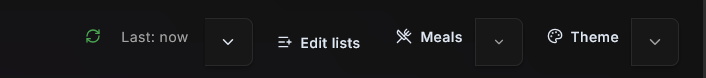
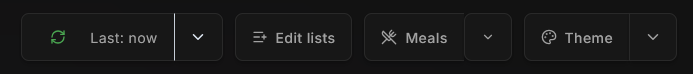
fix: remove ghost variant from custom-styled buttons
Removed variant="ghost" from all desktop floating buttons and Settings
modal buttons to prevent shadcn's ghost variant styles from overriding
custom styling. Buttons now properly display with intended backgrounds,
borders, and shadows.

🤖 Generated with [Claude Code](https://claude.com/claude-code)

diff --git a/src/routes/+page.svelte b/src/routes/+page.svelte
@@ -723,7 +723,6 @@
         <div class="sync-button-container">
           <!-- Main Sync Button -->
           <Button
-            variant="ghost"
             class="sync-button-floating sync-button-main {syncStore.isSyncing || syncStore.isClearingCache ? 'syncing' : syncStore.isOnline && !syncStore.isSyncing && !syncStore.isClearingCache ? 'synced' : !syncStore.isOnline ? 'offline' : ''}"
             onclick={handleSync}
             disabled={!syncStore.isOnline || syncStore.isSyncing || syncStore.isClearingCache}
@@ -785,7 +784,6 @@
 
         <!-- Edit Lists Button -->
         <Button
-          variant="ghost"
           class="action-button-floating edit-lists-button"
           onclick={handleEditLists}
           aria-label="Edit lists"
@@ -799,7 +797,6 @@
         <div class="meals-button-container hidden lg:block">
           <!-- Main Meals Button -->
           <Button
-            variant="ghost"
             class="action-button-floating meals-button-main"
             onclick={handleMealPlannerModalOpen}
             aria-label="Meal planner"
@@ -834,7 +831,6 @@
         <div class="theme-button-container">
           <!-- Main Theme Button -->
           <Button
-            variant="ghost"
             class="action-button-floating theme-button-main"
             onclick={() => isThemeDropdownOpen = !isThemeDropdownOpen}
             aria-label="Change theme"

diff --git a/src/lib/components/Settings.svelte b/src/lib/components/Settings.svelte
@@ -210,7 +210,6 @@
         <!-- Lists Management Section -->
         <section class="settings-section">
           <Button
-            variant="ghost"
             class="menu-item"
             onclick={handleEditLists}
           >
@@ -226,7 +225,6 @@
           <div class="theme-button-container">
             <!-- Main Theme Button -->
             <Button
-              variant="ghost"
               class="theme-button theme-button-main"
               onclick={() => isThemeDropdownOpen = !isThemeDropdownOpen}
               aria-label="Change theme"
@@ -271,7 +269,6 @@
           <div class="sync-button-container">
             <!-- Main Sync Button -->
             <Button
-              variant="ghost"
               class="sync-button sync-button-main {syncStatus}"
               onclick={(e) => handleSync(e)}
               disabled={!isOnline || isSyncing || isClearingCache}
